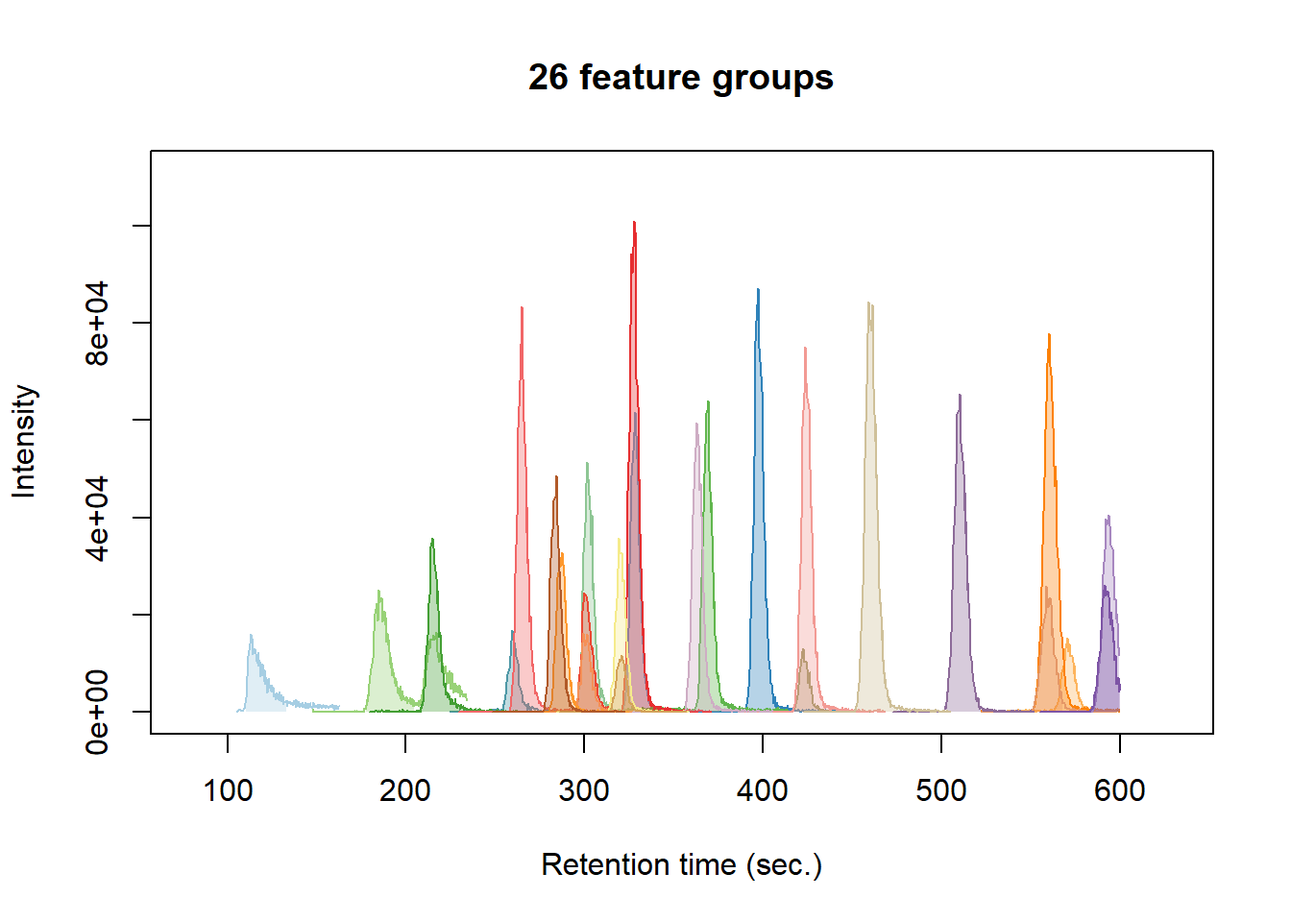
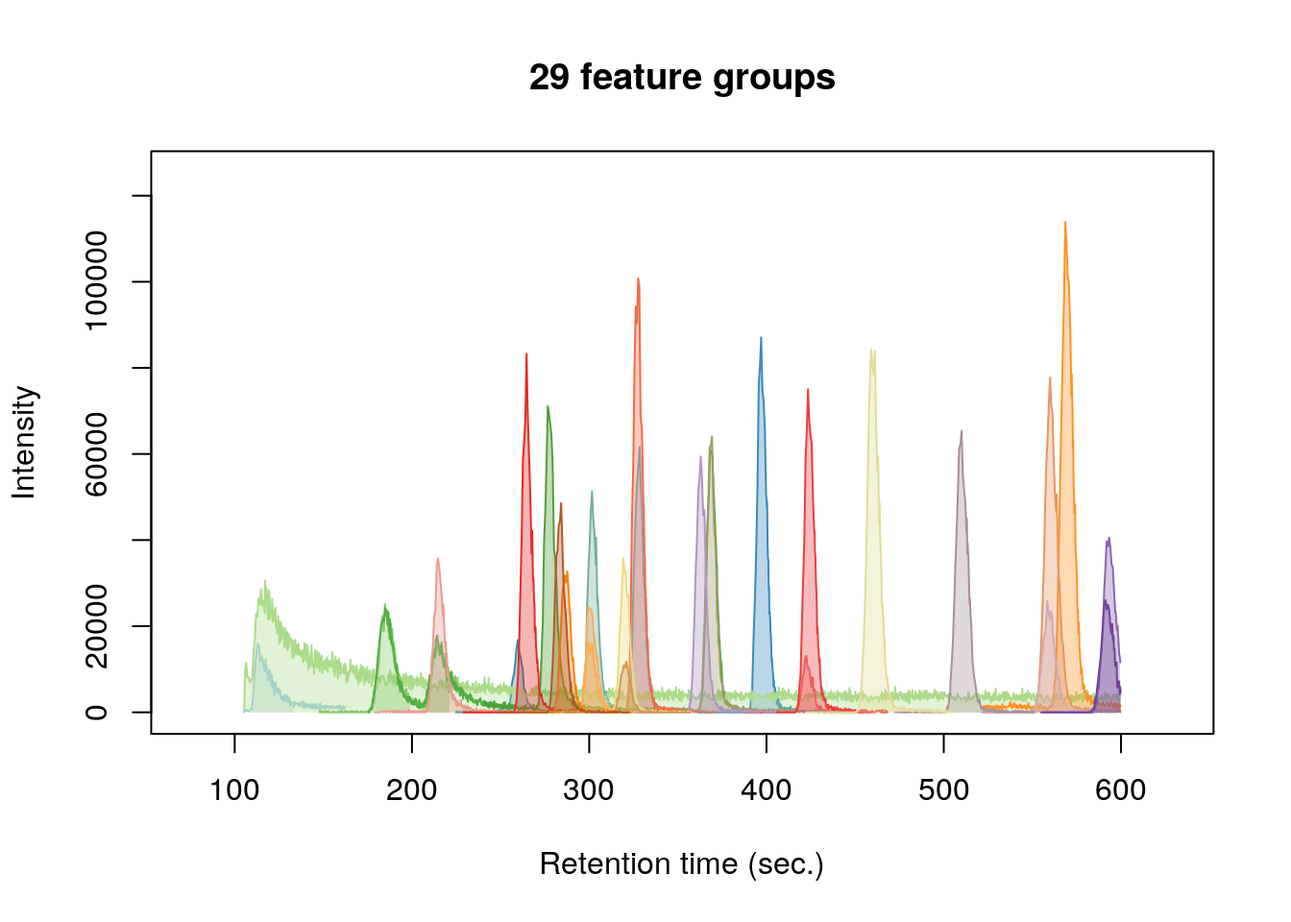
pkgdown update

diff --git a/docs/articles/tutorial.html b/docs/articles/tutorial.html
@@ -66,12 +66,18 @@
       <h1>patRoon tutorial</h1>
                         <h4 class="author">Rick Helmus</h4>
             
-            <h4 class="date">2018-03-11</h4>
+            <h4 class="date">2018-03-13</h4>
           </div>
 
     
     
 <div class="contents">
+<style>
+pre, code {
+    white-space: pre !important;
+    overflow-x: auto !important;
+}
+</style>
 <div id="introduction" class="section level2">
 <h2 class="hasAnchor">
 <a href="#introduction" class="anchor"></a>Introduction</h2>
@@ -89,7 +95,12 @@
 <div id="new-project" class="section level2">
 <h2 class="hasAnchor">
 <a href="#new-project" class="anchor"></a>New project</h2>
-<p>To start a new non-target analysis it is highly recommended to create a new directory. We will refer to this directory as the <em>project directory</em>. This directory typically contains: * a <code>R</code> script (or scripts) which will do the actual processing * an (optional) <em>.csv</em> file with analysis information * an automatically generated cache file which is internally used by <code>patRoon</code> to cache (intermediate) results, therefore, preventing repeated execution of lengthy workflow steps that have been performed before.</p>
+<p>To start a new non-target analysis it is highly recommended to create a new directory. We will refer to this directory as the <em>project directory</em>. This directory typically contains:</p>
+<ul>
+<li>a <code>R</code> script (or scripts) which will do the actual processing</li>
+<li>an (optional) <em>.csv</em> file with analysis information</li>
+<li>an automatically generated cache file which is internally used by <code>patRoon</code> to cache (intermediate) results, therefore, preventing repeated execution of lengthy workflow steps that have been performed before.</li>
+</ul>
 <p>Once you have created a suitable directory in the location of your choosing, please create the following skeleton <code>R</code> script:</p>
 <div class="sourceCode"><pre class="sourceCode r"><code class="sourceCode r"><span class="kw">library</span>(patRoon)
 
@@ -97,22 +108,15 @@ workPath &lt;-<span class="st"> "~/my_project"</span> <span class="co"># change 
 ## setwd(workPath)
 
 dataDir &lt;-<span class="st"> </span>patRoonData<span class="op">::</span><span class="kw"><a href="http://www.rdocumentation.org/packages/patRoonData/topics/patRoonData">exampleDataPath</a></span>()</code></pre></div>
-<p>Next step is to generate information ncessary for the analysis. To do so, we need to specify the names and file locations of the analyses, to which <em>replicate group</em> they belong and which replicate group(s) should be used for blank subtraction. To do so, we can use the <code><a href="../reference/analysis-information.html">generateAnalysisInfo()</a></code> utility function which automatically generates a suitable <code>data.frame</code> for us from given analyses:</p>
+<p>The next step is to generate information ncessary for the analysis. To do so, we need to specify the names and file locations of the analyses, to which <em>replicate group</em> they belong and which replicate group(s) should be used for blank subtraction. To do so, we can use the <code><a href="../reference/analysis-information.html">generateAnalysisInfo()</a></code> utility function which automatically generates a suitable <code>data.frame</code> for us from given analyses:</p>
 <div class="sourceCode"><pre class="sourceCode r"><code class="sourceCode r"><span class="kw"><a href="../reference/analysis-information.html">generateAnalysisInfo</a></span>(dataDir)
-<span class="co">#&gt;                                                     path   analysis</span>
-<span class="co">#&gt; 1 C:/Program Files/R/R-3.4.3/library/patRoonData/extdata  solvent-1</span>
-<span class="co">#&gt; 2 C:/Program Files/R/R-3.4.3/library/patRoonData/extdata  solvent-2</span>
-<span class="co">#&gt; 3 C:/Program Files/R/R-3.4.3/library/patRoonData/extdata  solvent-3</span>
-<span class="co">#&gt; 4 C:/Program Files/R/R-3.4.3/library/patRoonData/extdata standard-1</span>
-<span class="co">#&gt; 5 C:/Program Files/R/R-3.4.3/library/patRoonData/extdata standard-2</span>
-<span class="co">#&gt; 6 C:/Program Files/R/R-3.4.3/library/patRoonData/extdata standard-3</span>
-<span class="co">#&gt;        group ref</span>
-<span class="co">#&gt; 1  solvent-1    </span>
-<span class="co">#&gt; 2  solvent-2    </span>
-<span class="co">#&gt; 3  solvent-3    </span>
-<span class="co">#&gt; 4 standard-1    </span>
-<span class="co">#&gt; 5 standard-2    </span>
-<span class="co">#&gt; 6 standard-3</span></code></pre></div>
+<span class="co">#&gt;                                                                 path   analysis      group ref</span>
+<span class="co">#&gt; 1 /home/rick/R/x86_64-suse-linux-gnu-library/3.4/patRoonData/extdata  solvent-1  solvent-1    </span>
+<span class="co">#&gt; 2 /home/rick/R/x86_64-suse-linux-gnu-library/3.4/patRoonData/extdata  solvent-2  solvent-2    </span>
+<span class="co">#&gt; 3 /home/rick/R/x86_64-suse-linux-gnu-library/3.4/patRoonData/extdata  solvent-3  solvent-3    </span>
+<span class="co">#&gt; 4 /home/rick/R/x86_64-suse-linux-gnu-library/3.4/patRoonData/extdata standard-1 standard-1    </span>
+<span class="co">#&gt; 5 /home/rick/R/x86_64-suse-linux-gnu-library/3.4/patRoonData/extdata standard-2 standard-2    </span>
+<span class="co">#&gt; 6 /home/rick/R/x86_64-suse-linux-gnu-library/3.4/patRoonData/extdata standard-3 standard-3</span></code></pre></div>
 <p>As you can see the generated <code>data.frame</code> consists of four columns:</p>
 <ul>
 <li>
@@ -130,58 +134,60 @@ dataDir &lt;-<span class="st"> </span>patRoonData<span class="op">::</span><span
                                 <span class="dt">groups =</span> <span class="kw">c</span>(<span class="kw">rep</span>(<span class="st">"solvent"</span>, <span class="dv">3</span>), <span class="kw">rep</span>(<span class="st">"standard"</span>, <span class="dv">3</span>)),
                                 <span class="dt">refs =</span> <span class="st">"solvent"</span>)
 anaInfo
-<span class="co">#&gt;                                                     path   analysis</span>
-<span class="co">#&gt; 1 C:/Program Files/R/R-3.4.3/library/patRoonData/extdata  solvent-1</span>
-<span class="co">#&gt; 2 C:/Program Files/R/R-3.4.3/library/patRoonData/extdata  solvent-2</span>
-<span class="co">#&gt; 3 C:/Program Files/R/R-3.4.3/library/patRoonData/extdata  solvent-3</span>
-<span class="co">#&gt; 4 C:/Program Files/R/R-3.4.3/library/patRoonData/extdata standard-1</span>
-<span class="co">#&gt; 5 C:/Program Files/R/R-3.4.3/library/patRoonData/extdata standard-2</span>
-<span class="co">#&gt; 6 C:/Program Files/R/R-3.4.3/library/patRoonData/extdata standard-3</span>
-<span class="co">#&gt;      group     ref</span>
-<span class="co">#&gt; 1  solvent solvent</span>
-<span class="co">#&gt; 2  solvent solvent</span>
-<span class="co">#&gt; 3  solvent solvent</span>
-<span class="co">#&gt; 4 standard solvent</span>
-<span class="co">#&gt; 5 standard solvent</span>
-<span class="co">#&gt; 6 standard solvent</span></code></pre></div>
+<span class="co">#&gt;                                                                 path   analysis    group     ref</span>
+<span class="co">#&gt; 1 /home/rick/R/x86_64-suse-linux-gnu-library/3.4/patRoonData/extdata  solvent-1  solvent solvent</span>
+<span class="co">#&gt; 2 /home/rick/R/x86_64-suse-linux-gnu-library/3.4/patRoonData/extdata  solvent-2  solvent solvent</span>
+<span class="co">#&gt; 3 /home/rick/R/x86_64-suse-linux-gnu-library/3.4/patRoonData/extdata  solvent-3  solvent solvent</span>
+<span class="co">#&gt; 4 /home/rick/R/x86_64-suse-linux-gnu-library/3.4/patRoonData/extdata standard-1 standard solvent</span>
+<span class="co">#&gt; 5 /home/rick/R/x86_64-suse-linux-gnu-library/3.4/patRoonData/extdata standard-2 standard solvent</span>
+<span class="co">#&gt; 6 /home/rick/R/x86_64-suse-linux-gnu-library/3.4/patRoonData/extdata standard-3 standard solvent</span></code></pre></div>
 <p>Note that we set the reference for the solvents to themself. This will remove any features from the solvents, which is generally fine as we are usually not interested in the blanks anyway.</p>
 <p>For larger project it may be preferred to export the <code>data.frame</code> to a <em>.csv</em> file so it can be easily edited, for instance, with Excel. Alternatively, the <code><a href="../reference/GUI-utils.html">newProject()</a></code> function can be used to make this process even easier (briefly discussed <a href="#newProject">here</a>).</p>
 </div>
 <div id="extract-and-group-features" class="section level2">
 <h2 class="hasAnchor">
 <a href="#extract-and-group-features" class="anchor"></a>Extract and group features</h2>
-<div class="sourceCode"><pre class="sourceCode r"><code class="sourceCode r">fList &lt;-<span class="st"> </span><span class="kw"><a href="../reference/feature-finding.html">findFeatures</a></span>(anaInfo, <span class="st">"openms"</span>, <span class="dt">maxlength =</span> <span class="dv">60</span>, <span class="dt">mzppm =</span> <span class="dv">5</span>)</code></pre></div>
+<div class="sourceCode"><pre class="sourceCode r"><code class="sourceCode r">fList &lt;-<span class="st"> </span><span class="kw"><a href="../reference/feature-finding.html">findFeatures</a></span>(anaInfo, <span class="st">"openms"</span>, <span class="dt">mzppm =</span> <span class="dv">5</span>)</code></pre></div>
 <div class="sourceCode"><pre class="sourceCode r"><code class="sourceCode r">fList
 <span class="co">#&gt; A features object ('featuresOpenMS')</span>
-<span class="co">#&gt; Total feature count: 2658</span>
-<span class="co">#&gt; Average feature count/analysis: 443</span>
+<span class="co">#&gt; Total feature count: 2662</span>
+<span class="co">#&gt; Average feature count/analysis: 444</span>
 <span class="co">#&gt; Analyses: solvent-1, solvent-2, solvent-3, standard-1, standard-2, standard-3 (6 total)</span>
 <span class="co">#&gt; Replicate groups: solvent, standard (2 total)</span>
 <span class="co">#&gt; Replicate groups used as ref: solvent (1 total)</span>
-<span class="co">#&gt; Object size (indication): 401.1 kB</span></code></pre></div>
+<span class="co">#&gt; Object size (indication): 401.7 kB</span></code></pre></div>
 <div class="sourceCode"><pre class="sourceCode r"><code class="sourceCode r">fGroups &lt;-<span class="st"> </span><span class="kw"><a href="../reference/feature-grouping.html">groupFeatures</a></span>(fList, <span class="st">"openms"</span>)
 fGroups
 <span class="co">#&gt; A feature groups object ('featureGroupsOpenMS')</span>
-<span class="co">#&gt; Feature groups: M79_R20_1, M79_R20_2, M79_R112_3, M79_R8_4, M85_R112_5, M85_R14_6, ... (644 total)</span>
+<span class="co">#&gt; Feature groups: M79_R20_1, M79_R20_2, M79_R112_3, M79_R8_4, M85_R113_5, M85_R14_6, ... (639 total)</span>
 <span class="co">#&gt; Analyses: solvent-1, solvent-2, solvent-3, standard-1, standard-2, standard-3 (6 total)</span>
 <span class="co">#&gt; Replicate groups: solvent, standard (2 total)</span>
 <span class="co">#&gt; Replicate groups used as ref: solvent (1 total)</span>
-<span class="co">#&gt; Object size (indication): 746.5 kB</span></code></pre></div>
+<span class="co">#&gt; Object size (indication): 744.6 kB</span></code></pre></div>
+<div class="sourceCode"><pre class="sourceCode r"><code class="sourceCode r"><span class="kw">head</span>(<span class="kw"><a href="../reference/featureGroups-class.html">groupTable</a></span>(fGroups))
+<span class="co">#&gt;         group        ret       mz solvent-1 solvent-2 solvent-3 standard-1 standard-2 standard-3</span>
+<span class="co">#&gt; 1:  M79_R20_1  19.637963 78.99679      7828      7092      7320       5368       7456       6812</span>
+<span class="co">#&gt; 2:  M79_R20_2  19.804059 79.02095         0         0         0      10540       7040       2036</span>
+<span class="co">#&gt; 3: M79_R112_3 112.041979 79.02098         0         0         0      24352       7008       4240</span>
+<span class="co">#&gt; 4:   M79_R8_4   8.143214 79.02099         0         0         0      93420      88860          0</span>
+<span class="co">#&gt; 5: M85_R113_5 112.631040 84.95948      8872      8780     10816       9596       8728       8732</span>
+<span class="co">#&gt; 6:  M85_R14_6  14.141316 84.95951    223372    207404    201416     252608     251744     235596</span></code></pre></div>
 </div>
 <div id="data-cleanup" class="section level2">
 <h2 class="hasAnchor">
 <a href="#data-cleanup" class="anchor"></a>Data cleanup</h2>
 <div class="sourceCode"><pre class="sourceCode r"><code class="sourceCode r">fGroups &lt;-<span class="st"> </span><span class="kw"><a href="../reference/generics.html">filter</a></span>(fGroups, <span class="dt">intensityThreshold =</span> <span class="dv">10000</span>, <span class="dt">intraRGroupAbundance =</span> <span class="dv">1</span>,
                   <span class="dt">minBlankThreshold =</span> <span class="dv">5</span>, <span class="dt">repetitions =</span> <span class="dv">2</span>, <span class="dt">retentionRange =</span> <span class="kw">c</span>(<span class="dv">110</span>, <span class="op">-</span><span class="dv">1</span>))
-<span class="co">#&gt; Applying intensity filter... Done! Filtered 411 (63.82%) groups. Remaining: 233.</span>
+<span class="co">#&gt; Applying intensity filter... Done! Filtered 406 (63.54%) groups. Remaining: 233.</span>
 <span class="co">#&gt; Applying retention filter... Done! Filtered 185 (79.40%) groups. Remaining: 48.</span>
 <span class="co">#&gt; filter repetition 1/2</span>
-<span class="co">#&gt; Applying replicate filter... Done! Filtered 20 (41.67%) groups. Remaining: 28.</span>
-<span class="co">#&gt; Applying blank filter... Done! Filtered 2 (7.14%) groups. Remaining: 26.</span>
+<span class="co">#&gt; Applying replicate filter... Done! Filtered 17 (35.42%) groups. Remaining: 31.</span>
+<span class="co">#&gt; Applying blank filter... Done! Filtered 2 (6.45%) groups. Remaining: 29.</span>
 <span class="co">#&gt; filter repetition 2/2</span>
-<span class="co">#&gt; Applying replicate filter... Done! Filtered 0 (0.00%) groups. Remaining: 26.</span>
-<span class="co">#&gt; Applying blank filter... Done! Filtered 0 (0.00%) groups. Remaining: 26.</span></code></pre></div>
-<div class="sourceCode"><pre class="sourceCode r"><code class="sourceCode r"><span class="kw"><a href="../reference/generics.html">plotEIC</a></span>(fGroups, <span class="dt">colourBy =</span> <span class="st">"fGroups"</span>, <span class="dt">showFGroupRect =</span> <span class="ot">FALSE</span>, <span class="dt">showPeakArea =</span> <span class="ot">TRUE</span>, <span class="dt">topMost =</span> <span class="dv">1</span>, <span class="dt">showLegend =</span> <span class="ot">FALSE</span>)</code></pre></div>
+<span class="co">#&gt; Applying replicate filter... Done! Filtered 0 (0.00%) groups. Remaining: 29.</span>
+<span class="co">#&gt; Applying blank filter... Done! Filtered 0 (0.00%) groups. Remaining: 29.</span></code></pre></div>
+<div class="sourceCode"><pre class="sourceCode r"><code class="sourceCode r"><span class="kw"><a href="../reference/generics.html">plotEIC</a></span>(fGroups, <span class="dt">colourBy =</span> <span class="st">"fGroups"</span>, <span class="dt">showFGroupRect =</span> <span class="ot">FALSE</span>, <span class="dt">showPeakArea =</span> <span class="ot">TRUE</span>,
+        <span class="dt">topMost =</span> <span class="dv">1</span>, <span class="dt">showLegend =</span> <span class="ot">FALSE</span>)</code></pre></div>
 <p><img src="tutorial_files/figure-html/plotEIC-1.png" width="672"></p>
 </div>
 <div id="ms-peak-lists" class="section level2">
@@ -191,11 +197,11 @@ fGroups
                               <span class="dt">avgMinIntensity =</span> <span class="dv">500</span>, <span class="dt">precursorMzWindow =</span> <span class="dv">8</span>)</code></pre></div>
 <div class="sourceCode"><pre class="sourceCode r"><code class="sourceCode r">plists
 <span class="co">#&gt; A MSPeakLists object ('MSPeakLists')</span>
-<span class="co">#&gt; Total peak count: 14847 (MS: 12770 - MS/MS: 2077)</span>
-<span class="co">#&gt; Average peak count/analysis: 4949 (MS: 4257 - MS/MS: 692)</span>
-<span class="co">#&gt; Total peak lists: 153 (MS: 78 - MS/MS: 75)</span>
-<span class="co">#&gt; Average peak lists/analysis: 51 (MS: 26 - MS/MS: 25)</span>
-<span class="co">#&gt; Object size (indication): 461.9 kB</span></code></pre></div>
+<span class="co">#&gt; Total peak count: 19715 (MS: 17142 - MS/MS: 2573)</span>
+<span class="co">#&gt; Average peak count/analysis: 6572 (MS: 5714 - MS/MS: 858)</span>
+<span class="co">#&gt; Total peak lists: 171 (MS: 87 - MS/MS: 84)</span>
+<span class="co">#&gt; Average peak lists/analysis: 57 (MS: 29 - MS/MS: 28)</span>
+<span class="co">#&gt; Object size (indication): 565.8 kB</span></code></pre></div>
 </div>
 <div id="formula-calculation" class="section level2">
 <h2 class="hasAnchor">
@@ -207,9 +213,9 @@ fGroups
 formulas
 <span class="co">#&gt; A formulaConsensus object (formulaConsensus)</span>
 <span class="co">#&gt; Algorithm: GenForm</span>
-<span class="co">#&gt; Total formula count: 227 (all), 41 (MS) and 186 (MS/MS)</span>
-<span class="co">#&gt; Average formulas per feature group: 19.2 (all), 11.6 (MS), 20.9 (MS/MS)</span>
-<span class="co">#&gt; Object size (indication): 71.6 kB</span></code></pre></div>
+<span class="co">#&gt; Total formula count: 246 (all), 41 (MS) and 205 (MS/MS)</span>
+<span class="co">#&gt; Average formulas per feature group: 18.3 (all), 11.6 (MS), 19.6 (MS/MS)</span>
+<span class="co">#&gt; Object size (indication): 75.8 kB</span></code></pre></div>
 </div>
 <div id="compound-identification" class="section level2">
 <h2 class="hasAnchor">
@@ -224,9 +230,11 @@ formulas
 <div class="sourceCode"><pre class="sourceCode r"><code class="sourceCode r">compounds
 <span class="co">#&gt; A compounds object (compounds)</span>
 <span class="co">#&gt; Algorithm: MetFrag</span>
-<span class="co">#&gt; Number of feature groups with compounds in this object: 21</span>
-<span class="co">#&gt; Number of compounds: 515 (total), 24.5 (mean), 15 - 25 (min - max)</span>
-<span class="co">#&gt; Object size (indication): 1.5 MB</span></code></pre></div>
+<span class="co">#&gt; Number of feature groups with compounds in this object: 23</span>
+<span class="co">#&gt; Number of compounds: 559 (total), 24.3 (mean), 9 - 25 (min - max)</span>
+<span class="co">#&gt; Object size (indication): 1.7 MB</span>
+<span class="kw"><a href="../reference/generics.html">plotSpec</a></span>(compounds, <span class="dv">1</span>, <span class="st">"M120_R328_91"</span>, plists)</code></pre></div>
+<p><img src="tutorial_files/figure-html/unnamed-chunk-7-1.png" width="384"></p>
 <div class="sourceCode"><pre class="sourceCode r"><code class="sourceCode r">compounds &lt;-<span class="st"> </span><span class="kw"><a href="../reference/compounds-class.html">addFormulaScoring</a></span>(compounds, formulas, <span class="dt">updateScore =</span> <span class="ot">TRUE</span>)</code></pre></div>
 </div>
 <div id="components" class="section level2">
@@ -236,9 +244,13 @@ formulas
 <div class="sourceCode"><pre class="sourceCode r"><code class="sourceCode r">components
 <span class="co">#&gt; A components object (componentsCamera)</span>
 <span class="co">#&gt; Algorithm: CAMERA</span>
-<span class="co">#&gt; Components: CMP1, CMP2, CMP3, CMP4, CMP5, CMP6, ... (19 total)</span>
-<span class="co">#&gt; Number of feature groups in components: 26 (total), 1.4 (mean), 1 - 3 (min - max)</span>
-<span class="co">#&gt; Object size (indication): 505.4 kB</span></code></pre></div>
+<span class="co">#&gt; Components: CMP1, CMP2, CMP3, CMP4, CMP5, CMP6, ... (20 total)</span>
+<span class="co">#&gt; Number of feature groups in components: 29 (total), 1.4 (mean), 1 - 3 (min - max)</span>
+<span class="co">#&gt; Object size (indication): 512.9 kB</span>
+<span class="kw"><a href="../reference/generics.html">plotSpec</a></span>(components, <span class="st">"CMP17"</span>)</code></pre></div>
+<p><img src="tutorial_files/figure-html/unnamed-chunk-9-1.png" width="480"></p>
+<div class="sourceCode"><pre class="sourceCode r"><code class="sourceCode r"><span class="kw"><a href="../reference/generics.html">plotEIC</a></span>(components, <span class="st">"CMP17"</span>, fGroups)</code></pre></div>
+<p><img src="tutorial_files/figure-html/unnamed-chunk-9-2.png" width="480"></p>
 </div>
 <div id="reporting" class="section level2">
 <h2 class="hasAnchor">
@@ -248,6 +260,7 @@ formulas
           <span class="dt">MSPeakLists =</span> plists)
 <span class="kw"><a href="../reference/reporting.html">reportMD</a></span>(fGroups, <span class="dt">formConsensus =</span> formulas, <span class="dt">compounds =</span> compounds, <span class="dt">components =</span> components,
          <span class="dt">MSPeakLists =</span> plists)</code></pre></div>
+<p>The output of <code>reportMD</code> can be seen [here][../examples/report.html].</p>
 </div>
 <div id="final-script" class="section level2">
 <h2 class="hasAnchor">
@@ -264,6 +277,30 @@ formulas
 <div id="suspect-screening" class="section level3">
 <h3 class="hasAnchor">
 <a href="#suspect-screening" class="anchor"></a>Suspect screening</h3>
+<div class="sourceCode"><pre class="sourceCode r"><code class="sourceCode r">scr &lt;-<span class="st"> </span><span class="kw"><a href="../reference/target-screening.html">screenTargets</a></span>(fGroups, patRoonData<span class="op">::</span>targets)
+<span class="co">#&gt; Found 23/23 targets (100.00%)</span>
+<span class="kw">head</span>(scr[, <span class="dv">1</span><span class="op">:</span><span class="dv">4</span>])
+<span class="co">#&gt;                       name  rt       mz         group</span>
+<span class="co">#&gt; 1:        1H-benzotriazole 328 120.0556  M120_R328_91</span>
+<span class="co">#&gt; 2: 2-(methylamino)pyridine 113 109.0760  M109_R116_61</span>
+<span class="co">#&gt; 3:              2-quinolol 369 146.0600 M146_R369_178</span>
+<span class="co">#&gt; 4:              4-quinolol 277 146.0600 M146_R277_177</span>
+<span class="co">#&gt; 5:              6-quinolol 214 146.0600 M146_R214_176</span>
+<span class="co">#&gt; 6:              8-quinolol 185 146.0600 M146_R185_175</span></code></pre></div>
+<div class="sourceCode"><pre class="sourceCode r"><code class="sourceCode r">fGroupsScreening &lt;-<span class="st"> </span><span class="kw"><a href="../reference/target-screening.html">groupFeaturesScreening</a></span>(fGroups, scr)
+<span class="co">#&gt; Converting screening results to feature groups... Done!</span>
+<span class="kw">head</span>(<span class="kw"><a href="../reference/featureGroups-class.html">groupTable</a></span>(fGroupsScreening))
+<span class="co">#&gt;                      group      ret       mz solvent-1 solvent-2 solvent-3 standard-1 standard-2 standard-3</span>
+<span class="co">#&gt; 1:        1H-benzotriazole 327.9651 120.0555         0         0         0      56936      61668      60600</span>
+<span class="co">#&gt; 2: 2-(methylamino)pyridine 115.7685 109.0759         0         0         0      15980      15508      13796</span>
+<span class="co">#&gt; 3:              2-quinolol 368.8301 146.0600         0         0         0      64060      60760      63436</span>
+<span class="co">#&gt; 4:              4-quinolol 277.1632 146.0600         0         0         0      66880      71080      68756</span>
+<span class="co">#&gt; 5:              6-quinolol 214.4695 146.0600         0         0         0      16940      16340      17864</span>
+<span class="co">#&gt; 6:              8-quinolol 184.9442 146.0599         0         0         0      24516      25100      24172</span></code></pre></div>
+<div class="sourceCode"><pre class="sourceCode r"><code class="sourceCode r"><span class="kw"><a href="../reference/generics.html">plotEIC</a></span>(fGroupsScreening, <span class="dt">colourBy =</span> <span class="st">"fGroups"</span>, <span class="dt">showFGroupRect =</span> <span class="ot">FALSE</span>, <span class="dt">showPeakArea =</span> <span class="ot">TRUE</span>,
+        <span class="dt">topMost =</span> <span class="dv">1</span>, <span class="dt">showLegend =</span> <span class="ot">TRUE</span>)</code></pre></div>
+<p><img src="tutorial_files/figure-html/unnamed-chunk-14-1.png" width="672"></p>
+<div class="sourceCode"><pre class="sourceCode r"><code class="sourceCode r"><span class="co"># perform 'regular' workflow steps as shown before (MS peak lists, formulas, compounds, ...)</span></code></pre></div>
 </div>
 <div id="import-and-exporting-feature-groups" class="section level3">
 <h3 class="hasAnchor">

diff --git a/docs/README.html b/docs/README.html
@@ -6,7 +6,7 @@
 <meta http-equiv="X-UA-Compatible" content="IE=edge">
 <meta name="viewport" content="width=device-width, initial-scale=1.0">
 
-<title>C:/Users/Rick/Documents/werk/patRoon/README.md • patRoon</title>
+<title>/mnt/nixshared2/shared/werk/patRoon/README.md • patRoon</title>
 
 <!-- jquery -->
 <script src="https://code.jquery.com/jquery-3.1.0.min.js" integrity="sha384-nrOSfDHtoPMzJHjVTdCopGqIqeYETSXhZDFyniQ8ZHcVy08QesyHcnOUpMpqnmWq" crossorigin="anonymous"></script>
@@ -27,7 +27,7 @@
 <script src="pkgdown.js"></script>
   
   
-<meta property="og:title" content="C:/Users/Rick/Documents/werk/patRoon/README.md" />
+<meta property="og:title" content="/mnt/nixshared2/shared/werk/patRoon/README.md" />
 <!-- mathjax -->
 <script src='https://mathjax.rstudio.com/latest/MathJax.js?config=TeX-AMS-MML_HTMLorMML'></script>
 
@@ -86,7 +86,7 @@
       <div class="row">
   <div class="contents col-md-12">
     <div class="page-header">
-      <h1>C:/Users/Rick/Documents/werk/patRoon/README.md</h1>
+      <h1>/mnt/nixshared2/shared/werk/patRoon/README.md</h1>
     </div>
 
 <div id="patroon" class="section level1">
@@ -114,6 +114,7 @@
 <li>
 <strong>reporting</strong> of all workflow steps in various formats: <em>CSV</em>, <em>PDF</em> and <em>HTML</em>.</li>
 </ul>
+<p>An example HTML report can viewed <a href="https://rickhelmus.github.io/patRoon/examples/report.html">here</a>.</p>
 <div id="installation" class="section level2">
 <h2 class="hasAnchor">
 <a href="#installation" class="anchor"></a>Installation</h2>
@@ -157,10 +158,11 @@ devtools<span class="op">::</span><span class="kw"><a href="http://www.rdocument
 <a href="#patroon-installation" class="anchor"></a>patRoon installation</h3>
 <p>Finally, you can install patRoon from github with:</p>
 <div class="sourceCode"><pre class="sourceCode r"><code class="sourceCode r"><span class="kw">install.packages</span>(<span class="st">"devtools"</span>) <span class="co"># needed only if not already installed</span>
-devtools<span class="op">::</span><span class="kw"><a href="http://www.rdocumentation.org/packages/devtools/topics/install_github">install_github</a></span>(<span class="st">"rickhelmus/patRoon"</span>)</code></pre></div>
-<p>In some cases this may fail with an error telling you that <code>SVN</code> is absent. In this case you may have better luck by changing to the <a href="https://github.com/r-lib/remotes#readme">remotes</a> package:</p>
+devtools<span class="op">::</span><span class="kw"><a href="http://www.rdocumentation.org/packages/devtools/topics/install_github">install_github</a></span>(<span class="st">"rickhelmus/patRoon"</span>)
+devtools<span class="op">::</span><span class="kw"><a href="http://www.rdocumentation.org/packages/devtools/topics/install_github">install_github</a></span>(<span class="st">"rickhelmus/patRoonData"</span>) <span class="co"># example data used by tutorial</span></code></pre></div>
+<p>In some cases the <code>patRoon</code> installation may fail with an error telling you that <code>SVN</code> is absent. In this case you may have better luck by changing to the <a href="https://github.com/r-lib/remotes#readme">remotes</a> package:</p>
 <div class="sourceCode"><pre class="sourceCode r"><code class="sourceCode r"><span class="kw">install.packages</span>(<span class="st">"remotes"</span>)
-remotes<span class="op">::</span><span class="kw">install_github</span>(<span class="st">"rickhelmus/patRoon"</span>)</code></pre></div>
+remotes<span class="op">::</span><span class="kw"><a href="http://www.rdocumentation.org/packages/remotes/topics/install_github">install_github</a></span>(<span class="st">"rickhelmus/patRoon"</span>)</code></pre></div>
 </div>
 </div>
 <div id="getting-started" class="section level2">

diff --git a/docs/reference/index.html b/docs/reference/index.html
@@ -110,6 +110,24 @@
         <tr>
           <!--  -->
           <td>
+            <p><code><a href="GUI-utils.html">checkChromatograms</a></code> <code><a href="GUI-utils.html">compoundViewer</a></code> <code><a href="GUI-utils.html">newProject</a></code> </p>
+          </td>
+          <td><p>Interactive GUI utilities</p></td>
+        </tr><tr>
+          <!--  -->
+          <td>
+            <p><code><a href="MSPeakLists-class.html">peakLists</a></code> <code><a href="MSPeakLists-class.html">algorithm</a></code> <code><a href="MSPeakLists-class.html">length</a></code> <code><a href="MSPeakLists-class.html">show</a></code> <code><a href="MSPeakLists-class.html">filter</a></code> </p>
+          </td>
+          <td><p>Class containing MS Peak Lists</p></td>
+        </tr><tr>
+          <!--  -->
+          <td>
+            <p><code><a href="MSPeakLists-generation.html">generateMSPeakLists</a></code> <code><a href="MSPeakLists-generation.html">generateDAMSPeakLists</a></code> <code><a href="MSPeakLists-generation.html">generateDAFMFMSPeakLists</a></code> <code><a href="MSPeakLists-generation.html">generateMzRPeakLists</a></code> </p>
+          </td>
+          <td><p>Generation of MS Peak Lists</p></td>
+        </tr><tr>
+          <!--  -->
+          <td>
             <p><code><a href="analysis-information.html">generateAnalysisInfo</a></code> <code><a href="analysis-information.html">generateAnalysisInfoFromEnviMass</a></code> </p>
           </td>
           <td><p>Analysis information</p></td>
@@ -242,27 +260,9 @@
         </tr><tr>
           <!--  -->
           <td>
-            <p><code><a href="GUI-utils.html">checkChromatograms</a></code> <code><a href="GUI-utils.html">compoundViewer</a></code> <code><a href="GUI-utils.html">newProject</a></code> </p>
-          </td>
-          <td><p>Interactive GUI utilities</p></td>
-        </tr><tr>
-          <!--  -->
-          <td>
             <p><code><a href="h-cluster.html">makeHCluster</a></code> <code><a href="h-cluster.html">hClusterFilter</a></code> <code><a href="h-cluster.html">drawHeatMap</a></code> <code><a href="h-cluster.html">getSilhouetteInfo</a></code> <code><a href="h-cluster.html">plotInt</a></code> <code><a href="h-cluster.html">plot</a></code> </p>
           </td>
           <td><p>Hierarchical clustering of feature groups</p></td>
-        </tr><tr>
-          <!--  -->
-          <td>
-            <p><code><a href="MSPeakLists-class.html">peakLists</a></code> <code><a href="MSPeakLists-class.html">algorithm</a></code> <code><a href="MSPeakLists-class.html">length</a></code> <code><a href="MSPeakLists-class.html">show</a></code> <code><a href="MSPeakLists-class.html">filter</a></code> </p>
-          </td>
-          <td><p>Class containing MS Peak Lists</p></td>
-        </tr><tr>
-          <!--  -->
-          <td>
-            <p><code><a href="MSPeakLists-generation.html">generateMSPeakLists</a></code> <code><a href="MSPeakLists-generation.html">generateDAMSPeakLists</a></code> <code><a href="MSPeakLists-generation.html">generateDAFMFMSPeakLists</a></code> <code><a href="MSPeakLists-generation.html">generateMzRPeakLists</a></code> </p>
-          </td>
-          <td><p>Generation of MS Peak Lists</p></td>
         </tr><tr>
           <!--  -->
           <td>

diff --git a/docs/index.html b/docs/index.html
@@ -93,6 +93,7 @@
 <li>
 <strong>reporting</strong> of all workflow steps in various formats: <em>CSV</em>, <em>PDF</em> and <em>HTML</em>.</li>
 </ul>
+<p>An example HTML report can viewed <a href="https://rickhelmus.github.io/patRoon/examples/report.html">here</a>.</p>
 <div id="installation" class="section level2">
 <h2 class="hasAnchor">
 <a href="#installation" class="anchor"></a>Installation</h2>
@@ -136,10 +137,11 @@ devtools<span class="op">::</span><span class="kw"><a href="http://www.rdocument
 <a href="#patroon-installation" class="anchor"></a>patRoon installation</h3>
 <p>Finally, you can install patRoon from github with:</p>
 <div class="sourceCode"><pre class="sourceCode r"><code class="sourceCode r"><span class="kw">install.packages</span>(<span class="st">"devtools"</span>) <span class="co"># needed only if not already installed</span>
-devtools<span class="op">::</span><span class="kw"><a href="http://www.rdocumentation.org/packages/devtools/topics/install_github">install_github</a></span>(<span class="st">"rickhelmus/patRoon"</span>)</code></pre></div>
-<p>In some cases this may fail with an error telling you that <code>SVN</code> is absent. In this case you may have better luck by changing to the <a href="https://github.com/r-lib/remotes#readme">remotes</a> package:</p>
+devtools<span class="op">::</span><span class="kw"><a href="http://www.rdocumentation.org/packages/devtools/topics/install_github">install_github</a></span>(<span class="st">"rickhelmus/patRoon"</span>)
+devtools<span class="op">::</span><span class="kw"><a href="http://www.rdocumentation.org/packages/devtools/topics/install_github">install_github</a></span>(<span class="st">"rickhelmus/patRoonData"</span>) <span class="co"># example data used by tutorial</span></code></pre></div>
+<p>In some cases the <code>patRoon</code> installation may fail with an error telling you that <code>SVN</code> is absent. In this case you may have better luck by changing to the <a href="https://github.com/r-lib/remotes#readme">remotes</a> package:</p>
 <div class="sourceCode"><pre class="sourceCode r"><code class="sourceCode r"><span class="kw">install.packages</span>(<span class="st">"remotes"</span>)
-remotes<span class="op">::</span><span class="kw">install_github</span>(<span class="st">"rickhelmus/patRoon"</span>)</code></pre></div>
+remotes<span class="op">::</span><span class="kw"><a href="http://www.rdocumentation.org/packages/remotes/topics/install_github">install_github</a></span>(<span class="st">"rickhelmus/patRoon"</span>)</code></pre></div>
 </div>
 </div>
 <div id="getting-started" class="section level2">

diff --git a/docs/reference/component-generation.html b/docs/reference/component-generation.html
@@ -247,7 +247,9 @@ and reduce the data size and thus complexity.
     <h2 class="hasAnchor" id="references"><a class="anchor" href="#references"></a>References</h2>
 
     <p>Kuhl, C., Tautenhahn, R., Boettcher, C., Larson, T. R. and Neumann, S. CAMERA: an integrated strategy for compound spectra extraction and annotation of liquid chromatography/mass spectrometry data sets. Analytical Chemistry, 84:283-289 (2012)
-    Martin Loos (2016). nontarget: Detecting Isotope, Adduct and Homologue Relations in LC-MS Data. R package version 1.9. https://CRAN.R-project.org/package=nontarget
+    Loos, M., Singer, H. (2017). 
+			Nontargeted homologue series extraction from hyphenated high resolution mass spectrometry, 
+			Journal of Cheminformatics 9(12), .
     Loos, M., Gerber, C., Corona, F., Hollender, J., Singer, H. (2015). 
 			Accelerated isotope fine structure calculation using pruned transition trees, 
 			Analytical Chemistry 87(11), 5738-5744.

diff --git a/docs/reference/formula-generation.html b/docs/reference/formula-generation.html
@@ -283,7 +283,7 @@ used to further improve formula assignment.
 
     <p>Below is a list of options (generated by running
   <code class='command'>GenForm</code> without commandline options) which can be set by the
-  <code>extraOpts</code> parameter. C:/Users/Rick/Documents/werk/patRoon/inst/misc/genform.txt</p>
+  <code>extraOpts</code> parameter. /mnt/nixshared2/shared/werk/patRoon/inst/misc/genform.txt</p>
     
     <h2 class="hasAnchor" id="references"><a class="anchor" href="#references"></a>References</h2>
 
